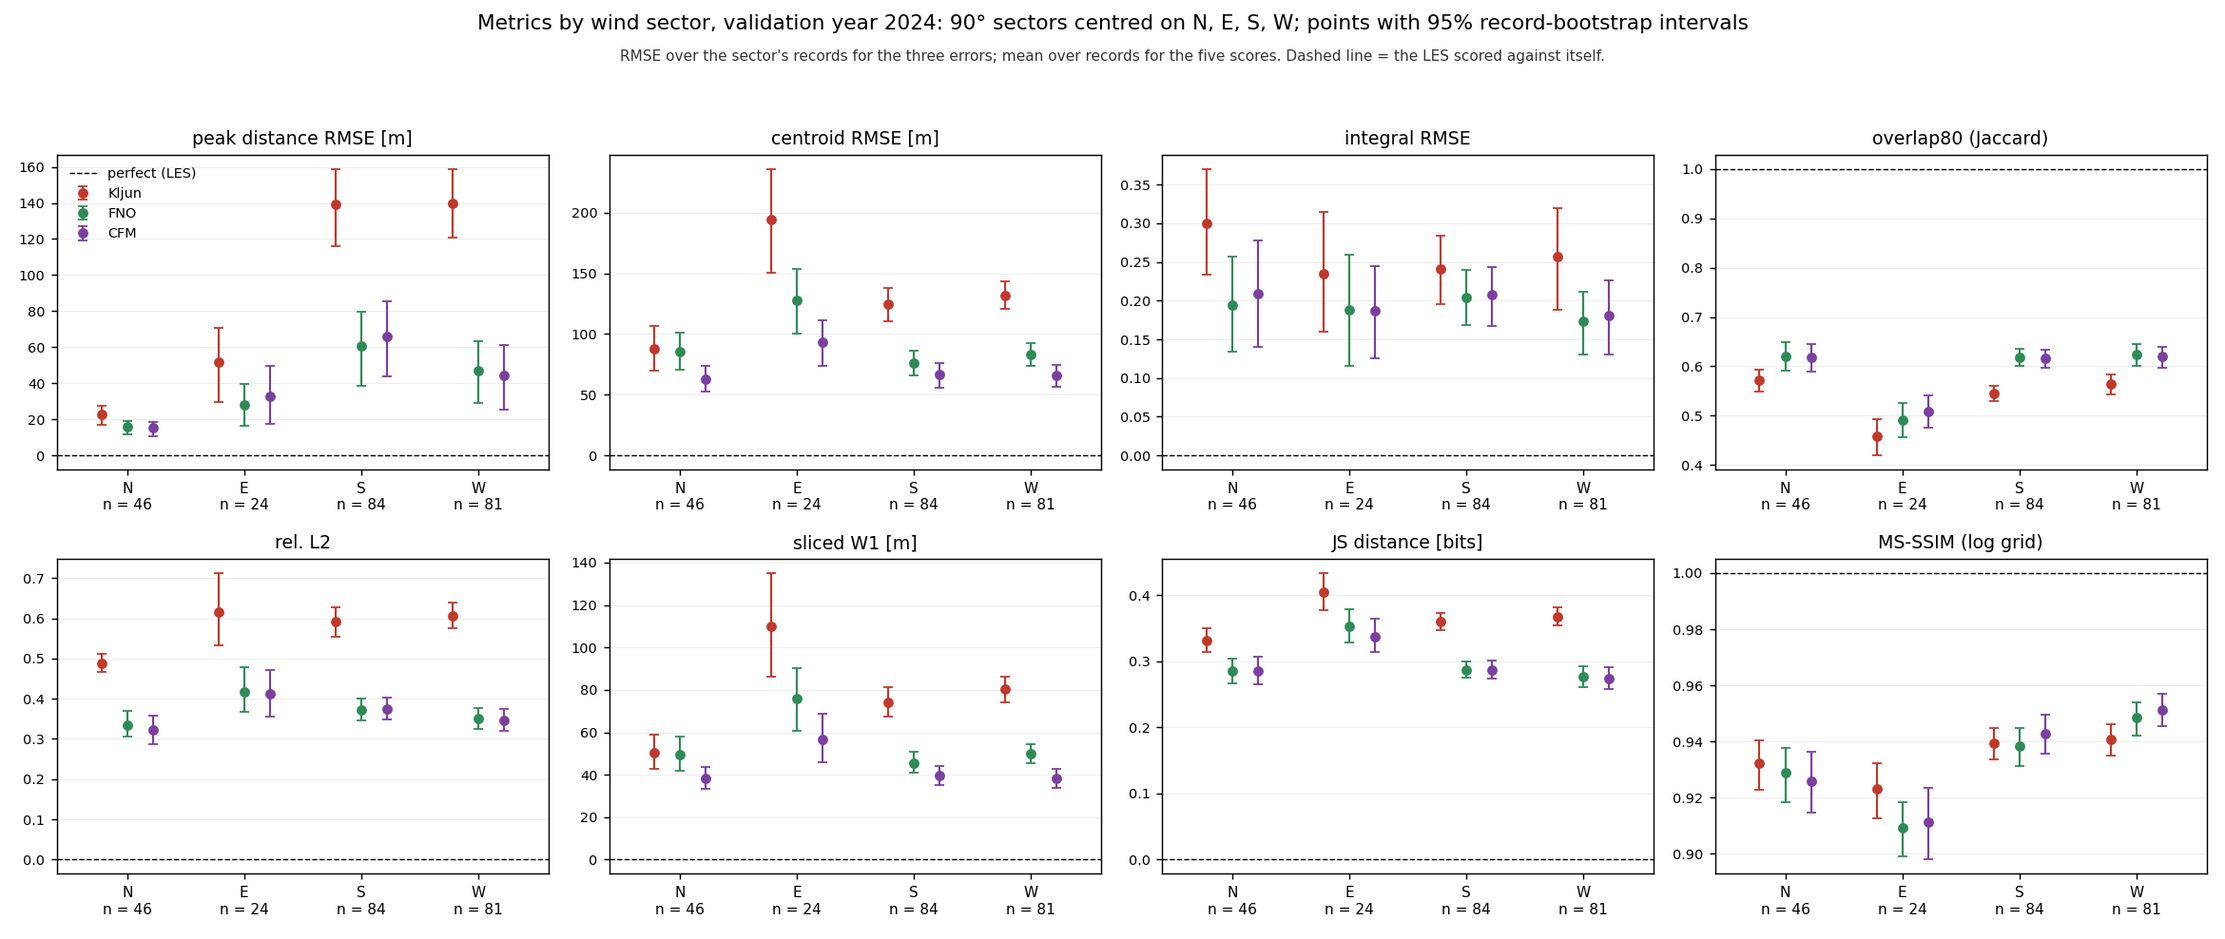
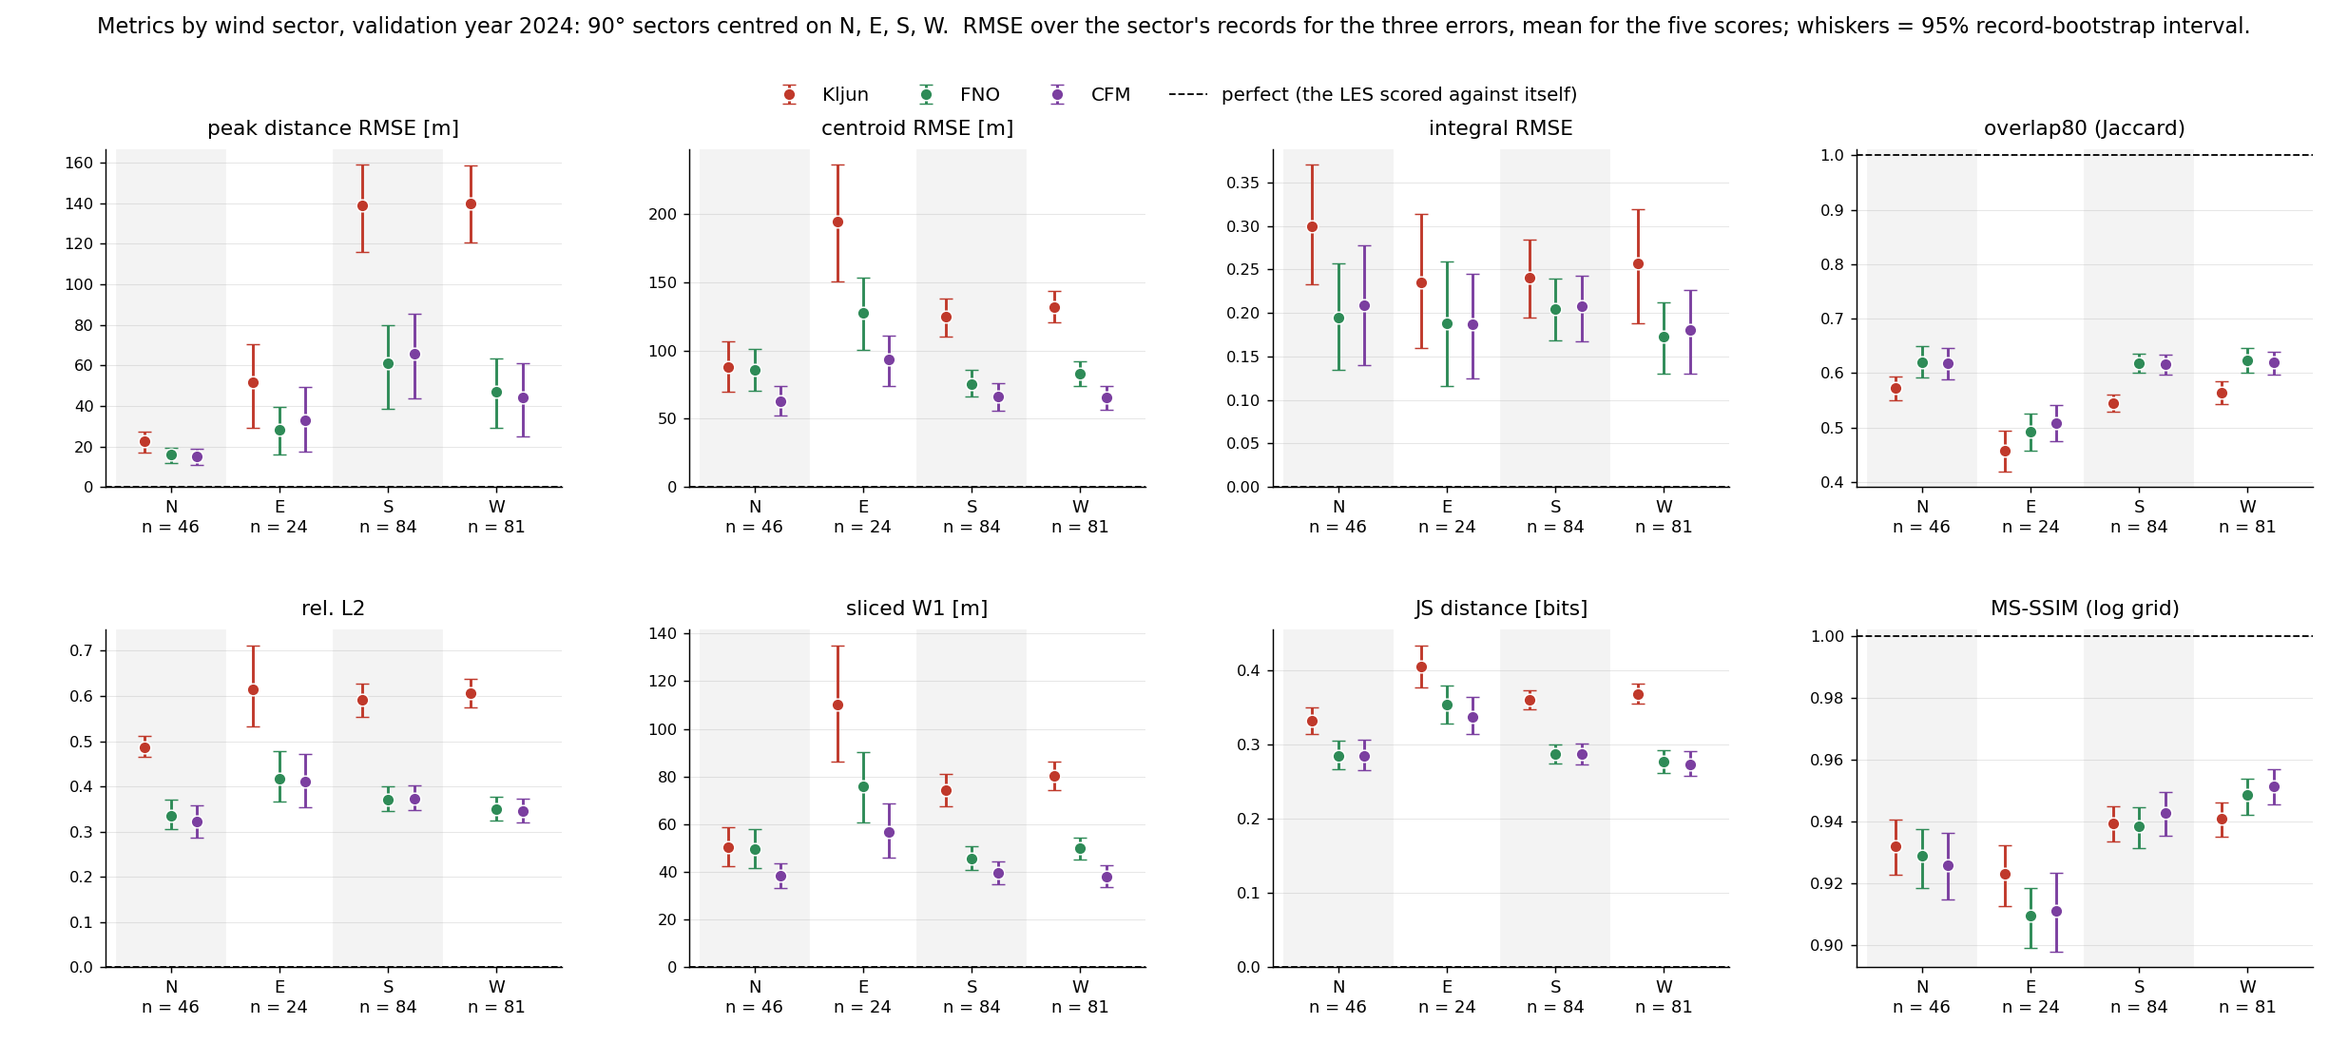
Report figures v4: translucent Esri imagery under the footprint panels, drop-shadow inset on the domain map, refined sector dot plot, ECDFs cut to the central 90% of records

diff --git a/ml_cfm/fig_sectors.py b/ml_cfm/fig_sectors.py
@@ -50,74 +50,40 @@ def main(argv=None):
     z = np.load(os.path.join(FR.OUT, f"metrics_{a.split}_per_record.npz"))
     masks = sector_masks(z["wdir_deg"])
     rng = np.random.default_rng(0)
-    plt.rcParams.update({"font.family": "DejaVu Sans"})
-    fig, axes = plt.subplots(2, 4, figsize=(18, 7.6))
+    plt.rcParams.update({"font.family": "DejaVu Sans", "pdf.fonttype": 42})
+    fig, axes = plt.subplots(2, 4, figsize=(19, 8.6))
+    plt.subplots_adjust(left=0.045, right=0.985, top=0.86, bottom=0.09, wspace=0.28, hspace=0.42)
     for ax, (key, label, how, perfect) in zip(axes.ravel(), PANELS):
+        for k in range(4):
+            if k % 2 == 0:
+                ax.axvspan(k - 0.5, k + 0.5, color="#f3f3f3", zorder=0)
         for j, name in enumerate(("Kljun", "FNO", "CFM")):
             xs, ys, lo, hi = [], [], [], []
             for k, (c, m) in enumerate(masks.items()):
                 v, l, h = boot(z[f"{name}__{key}"][m], how, rng)
-                xs.append(k + (j - 1) * 0.22); ys.append(v); lo.append(v - l); hi.append(h - v)
-            ax.errorbar(xs, ys, yerr=[lo, hi], fmt="o", ms=5, color=COL[name], ecolor=COL[name], elinewidth=1.2, capsize=3, label=name)
-        ax.axhline(perfect, color="k", lw=0.8, ls="--", label="perfect (LES)" if key == "peak_x" else None)
-        ax.set_xticks(range(4)); ax.set_xticklabels([f"{c}\nn = {int(m.sum())}" for c, m in masks.items()], fontsize=8.5)
-        ax.set_title(label, fontsize=10.5); ax.grid(axis="y", alpha=0.25, lw=0.5); ax.tick_params(axis="y", labelsize=8)
+                xs.append(k + (j - 1) * 0.24); ys.append(v); lo.append(v - l); hi.append(h - v)
+            ax.errorbar(xs, ys, yerr=[lo, hi], fmt="o", ms=7, color=COL[name], ecolor=COL[name], elinewidth=1.6, capsize=4, capthick=1.4,
+                        mec="white", mew=0.8, label=name, zorder=3)
+        ax.axhline(perfect, color="k", lw=1.0, ls="--", zorder=2)
+        ax.set_xticks(range(4)); ax.set_xticklabels([f"{c}\nn = {int(m.sum())}" for c, m in masks.items()], fontsize=10)
+        ax.set_title(label, fontsize=12, pad=8); ax.grid(axis="y", alpha=0.3, lw=0.6); ax.tick_params(axis="y", labelsize=9)
         ax.set_xlim(-0.6, 3.6)
-    axes[0, 0].legend(fontsize=8, frameon=False, loc="upper left")
+        if perfect == 1:
+            ax.set_ylim(top=1.0 + 0.02 * (1.0 - ax.get_ylim()[0]))
+        else:
+            ax.set_ylim(bottom=0)
+        for sp in ("top", "right"):
+            ax.spines[sp].set_visible(False)
+    h, l = axes[0, 0].get_legend_handles_labels()
+    fig.legend(h + [plt.Line2D([], [], color="k", ls="--", lw=1.0)], l + ["perfect (the LES scored against itself)"],
+               loc="upper center", ncol=4, fontsize=11, frameon=False, bbox_to_anchor=(0.5, 0.935))
     year = {"val": "validation year 2024", "test": "test year 2025"}.get(a.split, a.split)
-    fig.suptitle(f"Metrics by wind sector, {year}: 90° sectors centred on N, E, S, W; points with 95% record-bootstrap intervals", fontsize=12, y=0.985)
-    fig.text(0.5, 0.935, "RMSE over the sector's records for the three errors; mean over records for the five scores. Dashed line = the LES scored against itself.",
-             ha="center", fontsize=8.5, color="#333333")
-    fig.tight_layout(rect=(0, 0, 1, 0.92))
+    fig.suptitle(f"Metrics by wind sector, {year}: 90° sectors centred on N, E, S, W.  RMSE over the sector's records for the three errors, "
+                 "mean for the five scores; whiskers = 95% record-bootstrap interval.", fontsize=12.5, y=0.985)
     os.makedirs(os.path.dirname(out), exist_ok=True)
     fig.savefig(out, dpi=130)
     print("wrote", out)
-    rose(z, masks, out.replace("sectors_", "sectors_rose_"), a.split)
     return 0
-
-
-def rose(z, masks, out, split_name):
-    """The same numbers as a wind rose: one polar panel per metric, the four sectors as 90-degree
-    wedges (N up), three bars per wedge (Kljun / FNO / CFM), bar length = the metric, whiskers =
-    the 95% record-bootstrap interval. The radial axis of every panel is zoomed to its own
-    values (the inner ring is not zero) and the value is printed at every bar tip."""
-    import matplotlib.pyplot as plt
-    rng = np.random.default_rng(0)
-    plt.rcParams.update({"font.family": "DejaVu Sans"})
-    fig, axes = plt.subplots(2, 4, figsize=(20, 11.2), subplot_kw=dict(projection="polar"))
-    plt.subplots_adjust(left=0.03, right=0.98, top=0.82, bottom=0.03, wspace=0.28, hspace=0.42)
-    ang = {"N": 0.0, "E": np.pi / 2, "S": np.pi, "W": 3 * np.pi / 2}
-    names = ("Kljun", "FNO", "CFM")
-    for ax, (key, label, how, perfect) in zip(axes.ravel(), PANELS):
-        ax.set_theta_zero_location("N"); ax.set_theta_direction(-1)
-        est = {(n, c): boot(z[f"{n}__{key}"][m], how, rng) for n in names for c, m in masks.items()}
-        vals = np.array([e[0] for e in est.values()]); los = np.array([e[1] for e in est.values()]); his = np.array([e[2] for e in est.values()])
-        span = his.max() - los.min()
-        r0 = max(0.0, los.min() - 0.35 * span); r1 = his.max() + 0.30 * span
-        if perfect == 1:
-            r1 = min(1.0, r1)
-        for c in masks:
-            ax.bar(ang[c], r1 - r0, width=np.pi / 2, bottom=r0, color="#f2f2f2", ec="#dddddd", lw=0.6, zorder=1)
-        for j, n in enumerate(names):
-            for c in masks:
-                v, lo, hi = est[(n, c)]
-                th = ang[c] + (j - 1) * 0.40
-                ax.bar(th, v - r0, width=0.36, bottom=r0, color=COL[n], alpha=0.9, label=n if c == "N" else None, zorder=3)
-                ax.plot([th, th], [lo, hi], color="k", lw=1.1, zorder=4)
-                fmt = "{:.0f}" if v >= 20 else ("{:.2f}" if v < 2 else "{:.1f}")
-                ax.text(th, hi + 0.04 * span, fmt.format(v), ha="center", va="center", fontsize=7.5, zorder=5,
-                        bbox=dict(fc="white", ec="none", alpha=0.7, pad=0.6))
-        ax.set_rlim(r0, r1)
-        ax.set_xticks(list(ang.values())); ax.set_xticklabels([f"{c}\nn = {int(m.sum())}" for c, m in masks.items()], fontsize=9.5)
-        ax.set_yticks(np.linspace(r0, r1, 4)[1:-1]); ax.set_yticklabels([])
-        ax.grid(alpha=0.4, lw=0.5); ax.spines["polar"].set_linewidth(0.8)
-        ax.set_title(f"{label}\nradial axis {r0:.3g} to {r1:.3g}" + ("  (perfect = 1)" if perfect == 1 else "  (perfect = 0)"), fontsize=10.5, pad=10)
-    h, l = axes[0, 0].get_legend_handles_labels()
-    fig.legend(h, l, loc="upper center", ncol=3, fontsize=11, frameon=False, bbox_to_anchor=(0.5, 0.905))
-    year = {"val": "validation year 2024", "test": "test year 2025"}.get(split_name, split_name)
-    fig.suptitle(f"Metrics by wind sector, {year}: 90° sectors centred on N, E, S, W\nbar = the metric over the sector's records, "
-                 "whisker = 95% record-bootstrap interval, value at the tip; each panel's radial axis is zoomed to its own range", fontsize=12, y=0.985)
-    fig.savefig(out, dpi=130); print("wrote", out)
 
 
 if __name__ == "__main__":

diff --git a/ml_cfm/fig_distributions.py b/ml_cfm/fig_distributions.py
@@ -34,39 +34,33 @@ def main(argv=None):
     plt.rcParams.update({"font.family": "DejaVu Sans"})
     fig, axes = plt.subplots(2, 4, figsize=(18, 8))
     names = ("Kljun", "FNO", "CFM")
-    LOGX = ("centroid", "integral", "rel_l2", "sw1_m", "js_dist")
     for ax, (key, label, how, perfect) in zip(axes.ravel(), FS.PANELS):
         xlabel = label.replace(" RMSE", "")
+        allv = np.concatenate([z[f"{n}__{key}"][np.isfinite(z[f"{n}__{key}"])] for n in names])
         for name in names:
-            raw = np.sort(z[f"{name}__{key}"][np.isfinite(z[f"{name}__{key}"])])
-            d = 1 - raw[::-1] if key == "ms_ssim" else raw          # MS-SSIM drawn as 1 - MS-SSIM (log), perfect at the left
+            d = np.sort(z[f"{name}__{key}"][np.isfinite(z[f"{name}__{key}"])])
             y = np.arange(1, len(d) + 1) / len(d)
-            ax.step(d, y, where="post", color=FS.COL[name], lw=1.8, label=f"{name}  ({'RMSE' if how == 'rmse' else 'mean'} {FS.stat(raw, how):.3g})")
-            ax.plot([np.median(d)], [0.5], marker="o", ms=5, color=FS.COL[name], mec="k", mew=0.5, zorder=5)
-        ax.axhline(0.5, color="#999999", lw=0.6, ls=":")
-        ax.set_ylim(0, 1); ax.set_ylabel("fraction of records ≤ x", fontsize=9)
-        if key in LOGX:
-            allv = np.concatenate([z[f"{n}__{key}"][np.isfinite(z[f"{n}__{key}"])] for n in names])
-            allv = allv[allv > 0]
-            ax.set_xscale("log"); ax.set_xlim(allv.min() * 0.8, allv.max() * 1.25)
-            xlabel += "  (log axis; perfect = 0, off the left edge)"
-        elif key == "ms_ssim":
-            ax.set_xscale("log"); xlabel = "1 − MS-SSIM  (log axis; MS-SSIM on the ticks)"
-            tk = [0.005, 0.01, 0.02, 0.05, 0.1, 0.2]
-            ax.set_xticks(tk); ax.set_xticklabels([f"{1 - t:g}" for t in tk]); ax.set_xlim(0.004, 0.25)
-        elif key == "overlap80":
-            ax.set_xlim(0.25, 0.9); ax.axvline(perfect, color="k", lw=0.8, ls="--")
-            xlabel += "  (perfect = 1, off the right edge)"
-        else:
-            ax.set_xlim(-5, 305); ax.set_xticks([0, 30, 60, 90, 120, 150, 180, 210, 240, 270, 300])
-            ax.set_xticklabels(["0", "30", "60", "90", "", "150", "", "210", "", "270", ""], fontsize=8)
+            ax.step(d, y, where="post", color=FS.COL[name], lw=2.0, label=f"{name}  ({'RMSE' if how == 'rmse' else 'mean'} {FS.stat(d, how):.3g})")
+            ax.plot([np.median(d)], [0.5], marker="o", ms=8, color=FS.COL[name], mec="k", mew=0.6, zorder=5)
+        ax.axhline(0.5, color="#999999", lw=0.7, ls=":")
+        ax.set_ylim(0, 1); ax.set_ylabel("fraction of records ≤ x", fontsize=9.5)
+        if key == "peak_x":
+            ax.set_xlim(-5, 185); ax.set_xticks([0, 30, 60, 90, 120, 150, 180]); ax.tick_params(axis="x", labelsize=8.5)
             ax.axvline(perfect, color="k", lw=0.8, ls="--")
-        ax.set_xlabel(xlabel, fontsize=9.5)
-        ax.tick_params(labelsize=8); ax.grid(alpha=0.3, lw=0.5)
-        ax.legend(fontsize=8, frameon=False, loc="lower right" if key != "overlap80" else "upper left")
+            xlabel += "  (30 m steps; cut at 180 m)"
+        else:
+            lo, hi = np.percentile(allv, [5, 95])
+            ax.set_xlim(lo, hi)
+            if lo <= perfect <= hi:
+                ax.axvline(perfect, color="k", lw=0.8, ls="--")
+            else:
+                xlabel += f"  (perfect = {perfect}, off the {'left' if perfect < lo else 'right'} edge)"
+        ax.set_xlabel(xlabel, fontsize=9)
+        ax.tick_params(labelsize=8.5); ax.grid(alpha=0.3, lw=0.5)
+        ax.legend(fontsize=8.5, frameon=False, loc="lower right" if perfect == 0 else "upper left")
     year = {"val": "validation year 2024", "test": "test year 2025"}.get(a.split, a.split)
     fig.suptitle(f"Every record's score, {year} (n = {n}): cumulative distributions per model; dot = median; dashed = perfect where it is in range; "
-                 "peak errors are multiples of the 30 m cell; error axes are logarithmic", fontsize=11.5, y=0.99)
+                 "every axis is cut to the central 90% of records", fontsize=11.5, y=0.99)
     fig.tight_layout(rect=(0, 0, 1, 0.96))
     os.makedirs(os.path.dirname(out), exist_ok=True)
     fig.savefig(out, dpi=130)

diff --git a/ml_cfm/figstyle.py b/ml_cfm/figstyle.py
@@ -55,8 +55,45 @@ def model_terrain():
     return _TOPO
 
 
-def footprint_panel(ax, f, vmax, statics, wdir_deg, letter=None, half=1830.0, cmap="turbo", terrain=True, alpha=0.9):
-    """The footprint as cells (no interpolation) on the turbo map over the model terrain,
+_IMG = None
+
+
+def imagery_on_grid(npx=1024, zoom=16):
+    """Esri World Imagery resampled onto the 128-cell LES frame (tower-relative metres, north
+    up), npx x npx RGB. Cached at data/raw/esri_les_grid.npy."""
+    global _IMG
+    if _IMG is None:
+        import os
+        cache = os.path.join(D.REPO, "data", "raw", f"esri_les_grid_{npx}_z{zoom}.npy")
+        if os.path.exists(cache):
+            _IMG = np.load(cache)
+            return _IMG
+        from pyproj import Transformer
+        from ml_cfm import fig_domain as FD
+        g = os.path.join(D.REPO, "data", "grid30_raised")
+        meta = np.load(os.path.join(g, "meta.npy"), allow_pickle=True).item()
+        tx, ty = float(meta["tower_x"]), float(meta["tower_y"])
+        half = D.N * D.DX / 2
+        u = (np.arange(npx) + 0.5) / npx * 2 * half - half
+        XX, YY = np.meshgrid(tx + u, ty + u)
+        mx, my = Transformer.from_crs("EPSG:3071", "EPSG:3857", always_xy=True).transform(XX, YY)
+        img, ext = FD.mosaic(mx.min() - 100, mx.max() + 100, my.min() - 100, my.max() + 100, zoom)
+        h, w = img.shape[:2]
+        col = np.clip(((mx - ext[0]) / (ext[1] - ext[0]) * w).astype(int), 0, w - 1)
+        row = np.clip(((ext[3] - my) / (ext[3] - ext[2]) * h).astype(int), 0, h - 1)
+        _IMG = img[row, col]
+        np.save(cache, _IMG)
+    return _IMG
+
+
+def background(ax, half, alpha=0.6):
+    """The imagery under a footprint panel, washed towards white by (1 - alpha)."""
+    img = imagery_on_grid()
+    ax.imshow(img, extent=[-half, half, -half, half], origin="lower", interpolation="bilinear", alpha=alpha, zorder=1)
+
+
+def footprint_panel(ax, f, vmax, statics, wdir_deg, letter=None, half=1830.0, cmap="turbo", terrain=True, alpha=0.92):
+    """The footprint as cells (no interpolation) on the turbo map over translucent Esri imagery,
     example_plot.py style: letter top-left, no ticks. Returns the mappable."""
     import fig_corpus_pairs as FCP
     from matplotlib.patches import Rectangle
@@ -65,16 +102,10 @@ def footprint_panel(ax, f, vmax, statics, wdir_deg, letter=None, half=1830.0, cm
     lv = levels(vmax)
     ff = np.asarray(f, np.float64)
     lf = np.ma.masked_less_equal(np.log10(np.maximum(ff, 10 ** lv[0])), lv[0])
-    ax.set_facecolor("#ececec")
+    ax.set_facecolor("white")
     if terrain:
-        topo = model_terrain()
-        tl = np.arange(np.floor(np.nanmin(topo) / 5) * 5, np.nanmax(topo) + 5, 5)
-        ax.contourf(xc, xc, topo, levels=tl, cmap="terrain", alpha=0.45, zorder=1)
-        ax.contour(xc, xc, topo, levels=tl, colors="k", linewidths=0.25, alpha=0.35, zorder=1.5)
+        background(ax, D.N * D.DX / 2)
     m = ax.pcolormesh(xe, xe, lf, cmap=cmap, vmin=lv[0], vmax=lv[-1], shading="flat", alpha=alpha, zorder=3)
-    water = statics["water"] > 0.5
-    ax.contourf(xc, xc, water.astype(float), levels=[0.5, 1.5], colors=["#7fb8ff"], alpha=0.7, zorder=2)
-    ax.contour(xc, xc, water, levels=[0.5], colors="#1f4e79", linewidths=0.8, zorder=4)
     x0, x1, y0, y1 = D.ARRAY_XY
     ax.add_patch(Rectangle((x0, y0), x1 - x0, y1 - y0, fill=False, ec="#ff00ff", lw=1.6, zorder=6))
     ax.plot(0, 0, marker="*", ms=11, mfc="w", mec="k", mew=0.8, zorder=7)

diff --git a/ml_cfm/fig_domain.py b/ml_cfm/fig_domain.py
@@ -84,7 +84,7 @@ def main(argv=None):
     import matplotlib
     matplotlib.use("Agg")
     import matplotlib.pyplot as plt
-    from matplotlib.patches import Polygon
+    from matplotlib.patches import Polygon, Rectangle
     from mpl_toolkits.axes_grid1.inset_locator import inset_axes, mark_inset
     from pyproj import Transformer
     import prep_stage6 as P6
@@ -152,19 +152,23 @@ def main(argv=None):
     ix0, ix1 = arr[:, 0].min() - ipad, arr[:, 0].max() + ipad
     iy0, iy1 = arr[:, 1].min() - ipad, arr[:, 1].max() + ipad
     iimg, iext = mosaic(ix0, ix1, iy0, iy1, a.zoom_inset)
-    axins = inset_axes(ax, width="30%", height="50%", loc="upper right", bbox_to_anchor=(-0.02, -0.09, 1, 1), bbox_transform=ax.transAxes, borderpad=0)
+    axins = inset_axes(ax, width="30%", height="50%", loc="upper right", bbox_to_anchor=(-0.005, -0.03, 1, 1), bbox_transform=ax.transAxes, borderpad=0)
     axins.imshow(iimg, extent=iext, origin="upper", interpolation="bilinear", zorder=1)
     axins.add_patch(Polygon(arr, closed=True, fill=False, ec="#ff00ff", lw=3.0, zorder=6))
     axins.plot(*tower, marker="*", ms=30, mfc=(1, 1, 1, 0.45), mec="k", mew=1.2, zorder=7)
     axins.set_xlim(ix0, ix1); axins.set_ylim(iy0, iy1); axins.set_aspect("equal"); axins.set_xticks([]); axins.set_yticks([])
     for sp in axins.spines.values():
-        sp.set_edgecolor("w"); sp.set_linewidth(4)
-    axins.set_title("INSET: the array at full imagery detail\nmagenta = array as parameterised (120 x 350 m)\nstar = tower as parameterised",
-                    fontsize=10.5, color="w", pad=6, bbox=dict(fc="black", alpha=0.55, ec="none", pad=4))
-    # the source box on the main map and two solid connectors
-    from matplotlib.patches import Rectangle
-    ax.add_patch(Rectangle((ix0, iy0), ix1 - ix0, iy1 - iy0, fill=False, ec="w", lw=2.5, zorder=8))
-    mark_inset(ax, axins, loc1=2, loc2=3, fc="none", ec="w", lw=2.0, ls="-", alpha=0.95, zorder=8)
+        sp.set_visible(False)
+    # a drop shadow under the inset: its screen box mapped into the main axes' data coordinates,
+    # drawn as stacked translucent rectangles offset down-right
+    fig.canvas.draw()
+    bb = axins.get_window_extent()
+    inv = ax.transData.inverted()
+    (dx0, dy0), (dx1, dy1) = inv.transform([[bb.x0, bb.y0], [bb.x1, bb.y1]])
+    axins.set_zorder(10)
+    for k in range(8, 0, -1):
+        off = 4.5 * k * (dx1 - dx0) / bb.width           # k * 4.5 screen px, in data units
+        ax.add_patch(Rectangle((dx0 + off, dy0 - off), dx1 - dx0, dy1 - dy0, fc="black", ec="none", alpha=0.09, zorder=9))
     os.makedirs(os.path.dirname(a.out), exist_ok=True)
     fig.savefig(a.out, dpi=150)
     print("wrote", a.out)

diff --git a/ml_cfm/fig_generative.py b/ml_cfm/fig_generative.py
@@ -75,12 +75,8 @@ def main(argv=None):
     ax.set_title("CFM footprint: the mean of 80 samples", fontsize=12.5, pad=10)
     # (b) the 80% source-area outline of each sample, with the LES's and the CFM mean's
     ax = axes[1]
-    ax.set_facecolor("#ececec")
-    topo = FS.model_terrain()
-    tl = np.arange(np.floor(np.nanmin(topo) / 5) * 5, np.nanmax(topo) + 5, 5)
-    ax.contourf(xc, xc, topo, levels=tl, cmap="terrain", alpha=0.45, zorder=1)
-    ax.contour(xc, xc, topo, levels=tl, colors="k", linewidths=0.25, alpha=0.35, zorder=1.5)
-    ax.contourf(xc, xc, (st["water"] > 0.5).astype(float), levels=[0.5, 1.5], colors=["#7fb8ff"], alpha=0.7, zorder=2)
+    ax.set_facecolor("white")
+    FS.background(ax, D.N * D.DX / 2)
     for s in S:
         ax.contour(xc, xc, s, levels=[level80(s)], colors=[FS.COL["cfm"]], linewidths=0.7, alpha=0.30, zorder=4)
     ax.contour(xc, xc, mean, levels=[level80(mean)], colors=[FS.COL["cfm"]], linewidths=2.6, zorder=6)

diff --git a/ml_cfm/fig_showcase.py b/ml_cfm/fig_showcase.py
@@ -104,7 +104,7 @@ def main(argv=None):
     lv = FS.levels(vmax)
     ticks = np.arange(np.ceil(lv[0]), np.floor(lv[-1]) + 0.5)
     cb.set_ticks(ticks); cb.set_ticklabels([f"$10^{{{int(t)}}}$" for t in ticks])
-    cb.set_label("flux footprint  [m$^{-2}$]      star = tower,  magenta = solar array,  blue = Lake Kegonsa,  arrow = wind,  background = terrain (USGS 3DEP), 5 m steps", fontsize=13)
+    cb.set_label("flux footprint  [m$^{-2}$]      star = tower,  magenta = solar array,  arrow = wind,  background = Esri World Imagery", fontsize=13)
     cb.ax.tick_params(labelsize=11)
     os.makedirs(os.path.dirname(out), exist_ok=True)
     fig.savefig(out, dpi=130)

diff --git a/results/ml_cfm/TIMELINE.md b/results/ml_cfm/TIMELINE.md
@@ -33,3 +33,4 @@
 - 2026-09-04 figures on val: showcase v2 (4 cases, per-case metrics table, no band), generative, sectors, distributions; test_predictions.py written (not run); gate PASS
 - 2026-09-04 figures v2 on val: showcase (turbo contourf, example_plot style, per-case table, bottom colourbar), generative (3 panels), sectors (+rose), distributions (ECDF), domain map on Esri imagery; gate PASS
 - 2026-09-04 figures v3 on val: showcase on USGS terrain, cells, equal boxes, detached colourbar; generative contour cloud + 90% band; rose zoomed per panel; ECDF log axes; domain inset over the lake with 3DEP contours; gate PASS
+- 2026-09-04 figures v4 on val: Esri imagery under the showcase and generative panels, domain inset with a drop shadow and no connectors, sector dots refined (rose dropped), ECDFs cut to the central 90%; gate PASS
